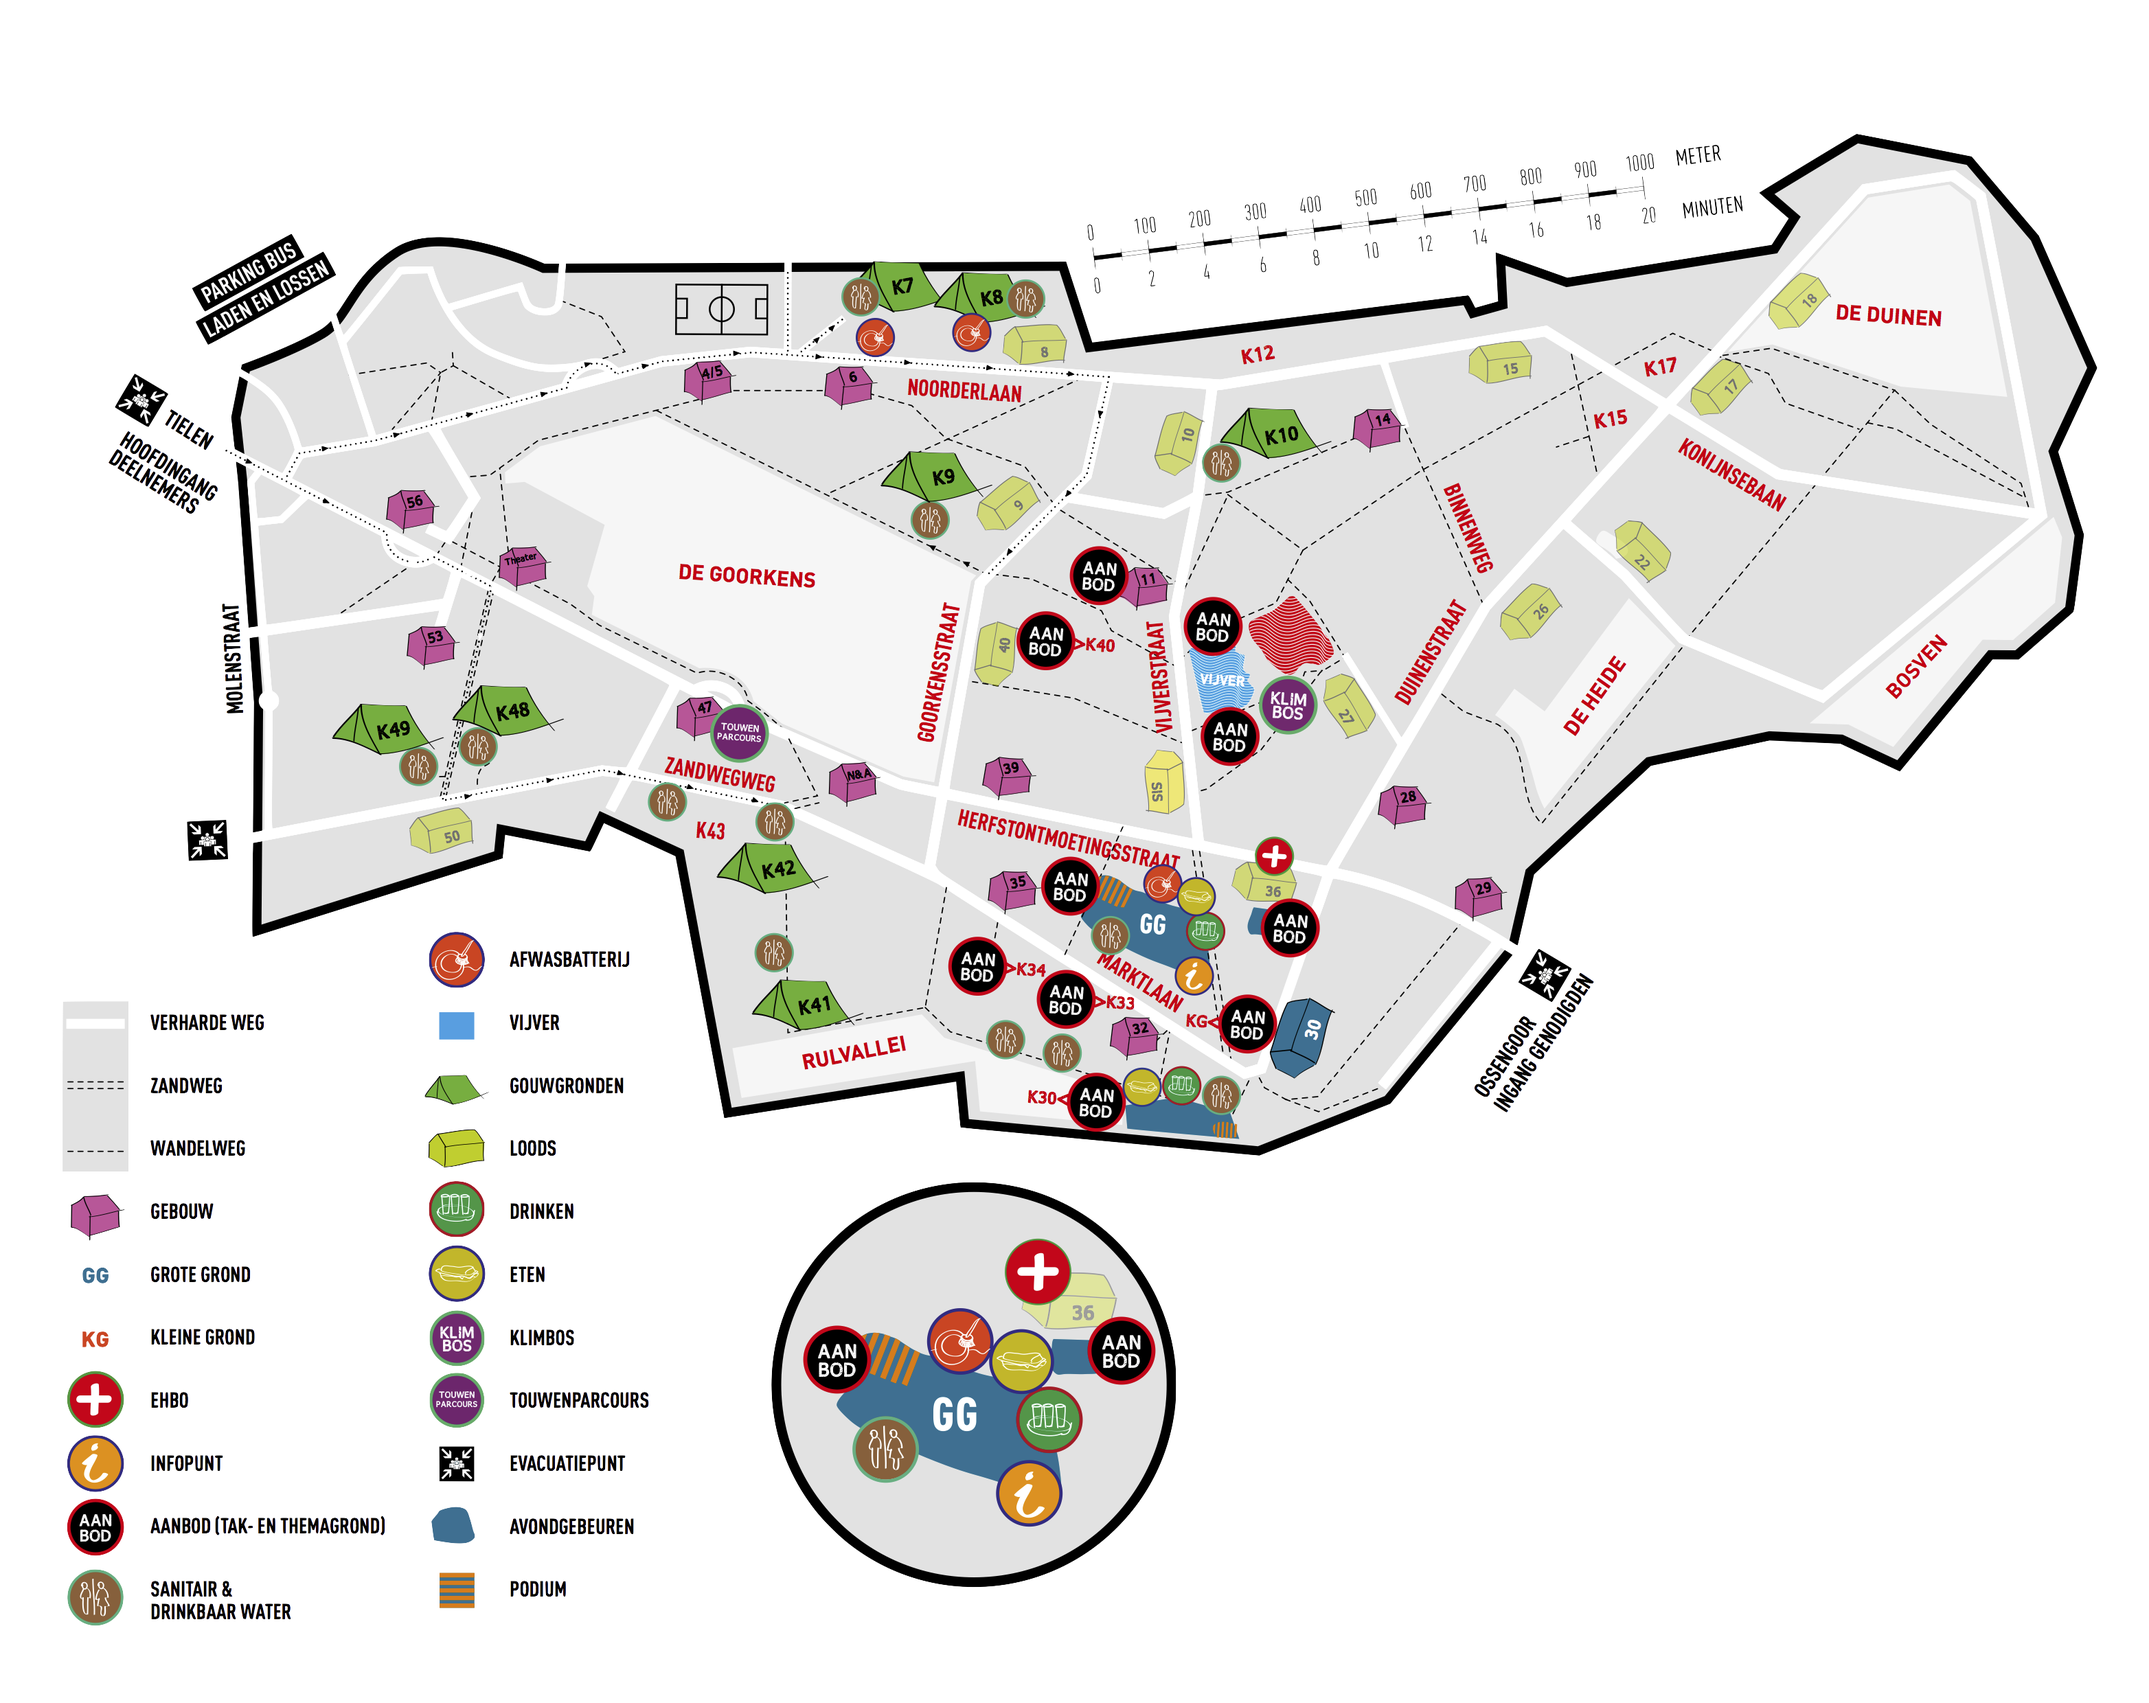
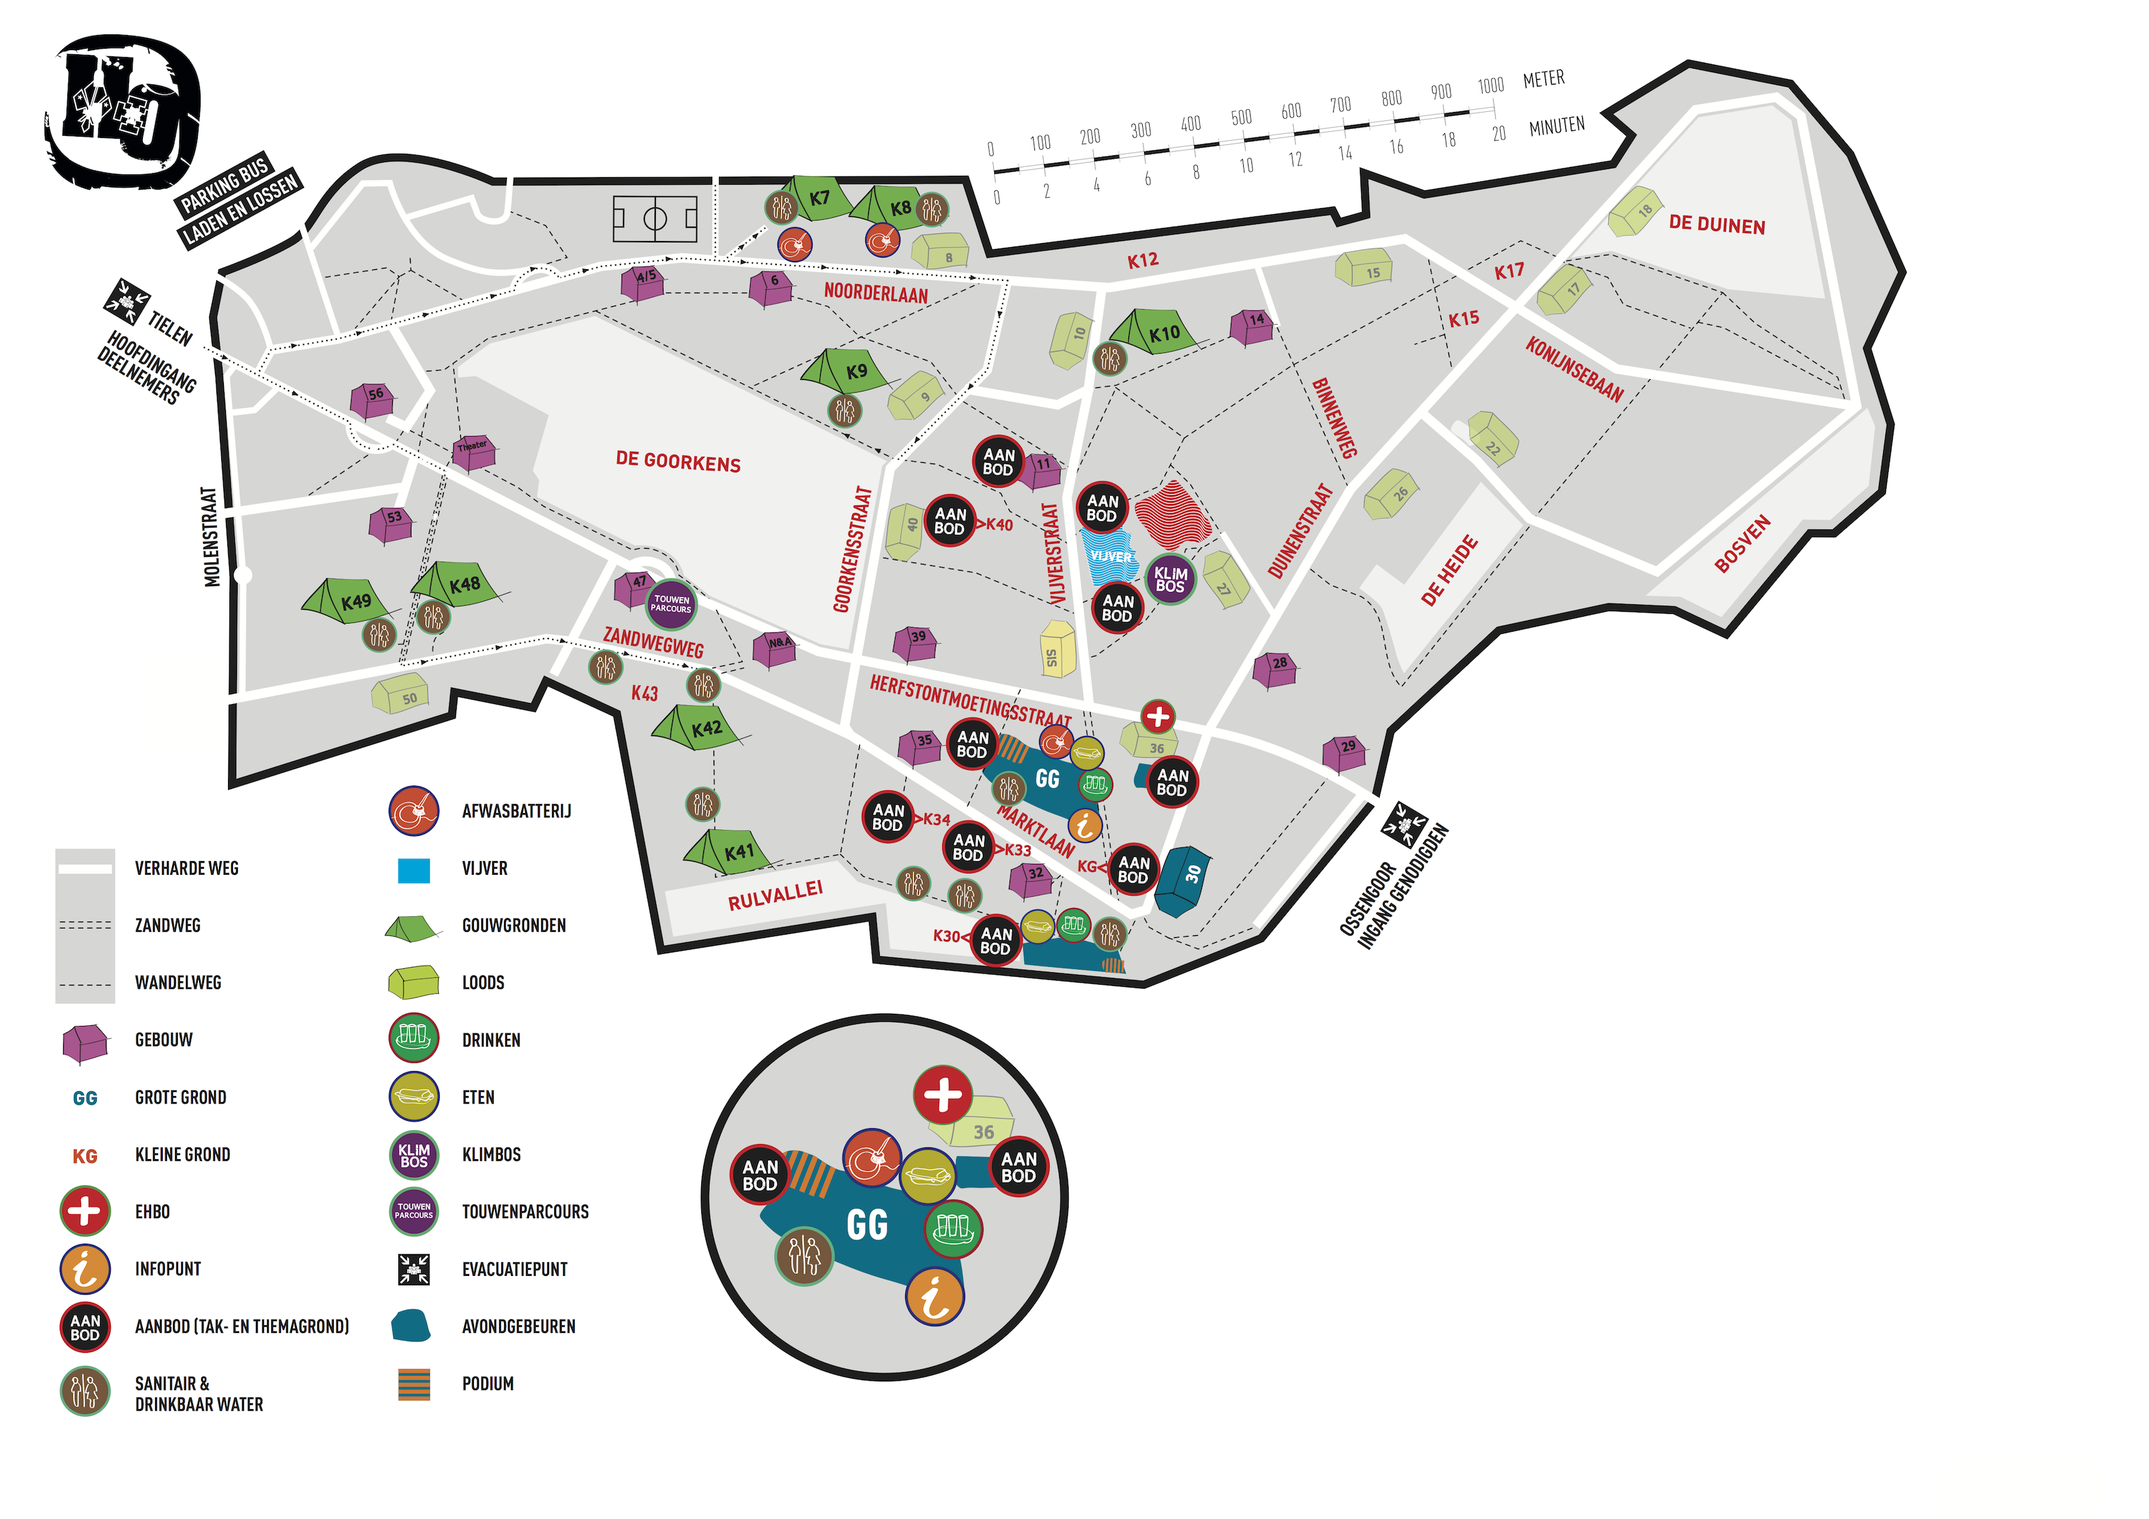
IOS store build 2.0.1

Changed region(s): [[0.0, 0.0, 0.992, 0.967]]

diff --git a/HOApp_2017/HOApp_2017/ScoutsEnGidsen/HO/BL/Controllers/NavigationController.cs b/HOApp_2017/HOApp_2017/ScoutsEnGidsen/HO/BL/Controllers/NavigationController.cs
@@ -1,30 +1,32 @@
 using System;
 using System.Collections.Generic;
+#if __ANDROID__
 using Android.Graphics;
+#endif
 using HOApp_2017.ScoutsEnGidsen.HO.BL.VO;
 
 namespace HOApp_2017.ScoutsEnGidsen.HO.BL.Controllers
 {
     public class NavigationController
     {
-        #region delegates
+#region delegates
         public delegate void GoToPageDelegate(PagesEnum page, BaseContentController controller);
-        #endregion
+#endregion
 
-        #region events
+#region events
         public event GoToPageDelegate GoToPageEvent;
 
 
-        #endregion
-        #region variables
+#endregion
+#region variables
 
-        #endregion
+#endregion
 
-        #region constructor
+#region constructor
 
-        #endregion
+#endregion
 
-        #region properties
+#region properties
         public IEnumerable<MenuItemVO> MenuItems
         {
             get
@@ -60,9 +62,9 @@ namespace HOApp_2017.ScoutsEnGidsen.HO.BL.Controllers
             set;
         }
 #endif
-        #endregion
+#endregion
 
-        #region public methods
+#region public methods
         public void SideMenuButtonClicked(PagesEnum page)
         {
             BaseContentController controller;

diff --git a/HOApp_2017/HOApp_2017.iOS/S&G/ViewControllers/ImageMapViewController.cs b/HOApp_2017/HOApp_2017.iOS/S&G/ViewControllers/ImageMapViewController.cs
@@ -43,13 +43,13 @@ namespace HOApp_2017.iOS
         {
             base.ViewDidAppear(animated);
             scrMapScroll.ZoomScale = 0.1f;
-            MapPoint1 = new CGPoint(352, 545);
-            MapPoint2 = new CGPoint(2207, 1387);
+            MapPoint1 = new CGPoint(322, 406);
+            MapPoint2 = new CGPoint(2003, 1164);
             coordinate1 = new CLLocationCoordinate2D(51.243642, 4.918261);
             coordinate2 = new CLLocationCoordinate2D(51.238957, 4.944440);
 
-            var pixelDistanceLong = 352 - 2207;
-            var pixelDistanceLat = 545 - 1387;
+            var pixelDistanceLong = 322 - 2003;
+            var pixelDistanceLat = 406 - 1164;
             var latDistance = coordinate1.Latitude - coordinate2.Latitude;
             var longDistance = coordinate1.Longitude - coordinate2.Longitude;
 

diff --git a/HOApp_2017/HOApp_2017/ScoutsEnGidsen/HO/DL/Database.cs b/HOApp_2017/HOApp_2017/ScoutsEnGidsen/HO/DL/Database.cs
@@ -24,7 +24,7 @@ namespace HOApp_2017.ScoutsEnGidsen.HO.DL {
 		string originalDBLocation = "SharedAssets/HO.sqlite";
         #endif
 
-        const int DATABASE_VERSION = 1;
+        const int DATABASE_VERSION = 2;
 		string currentDBName = "HO" + DATABASE_VERSION + ".sqlite";
         string oldDBName = "HO" + (DATABASE_VERSION - 1) + ".sqlite";
 
